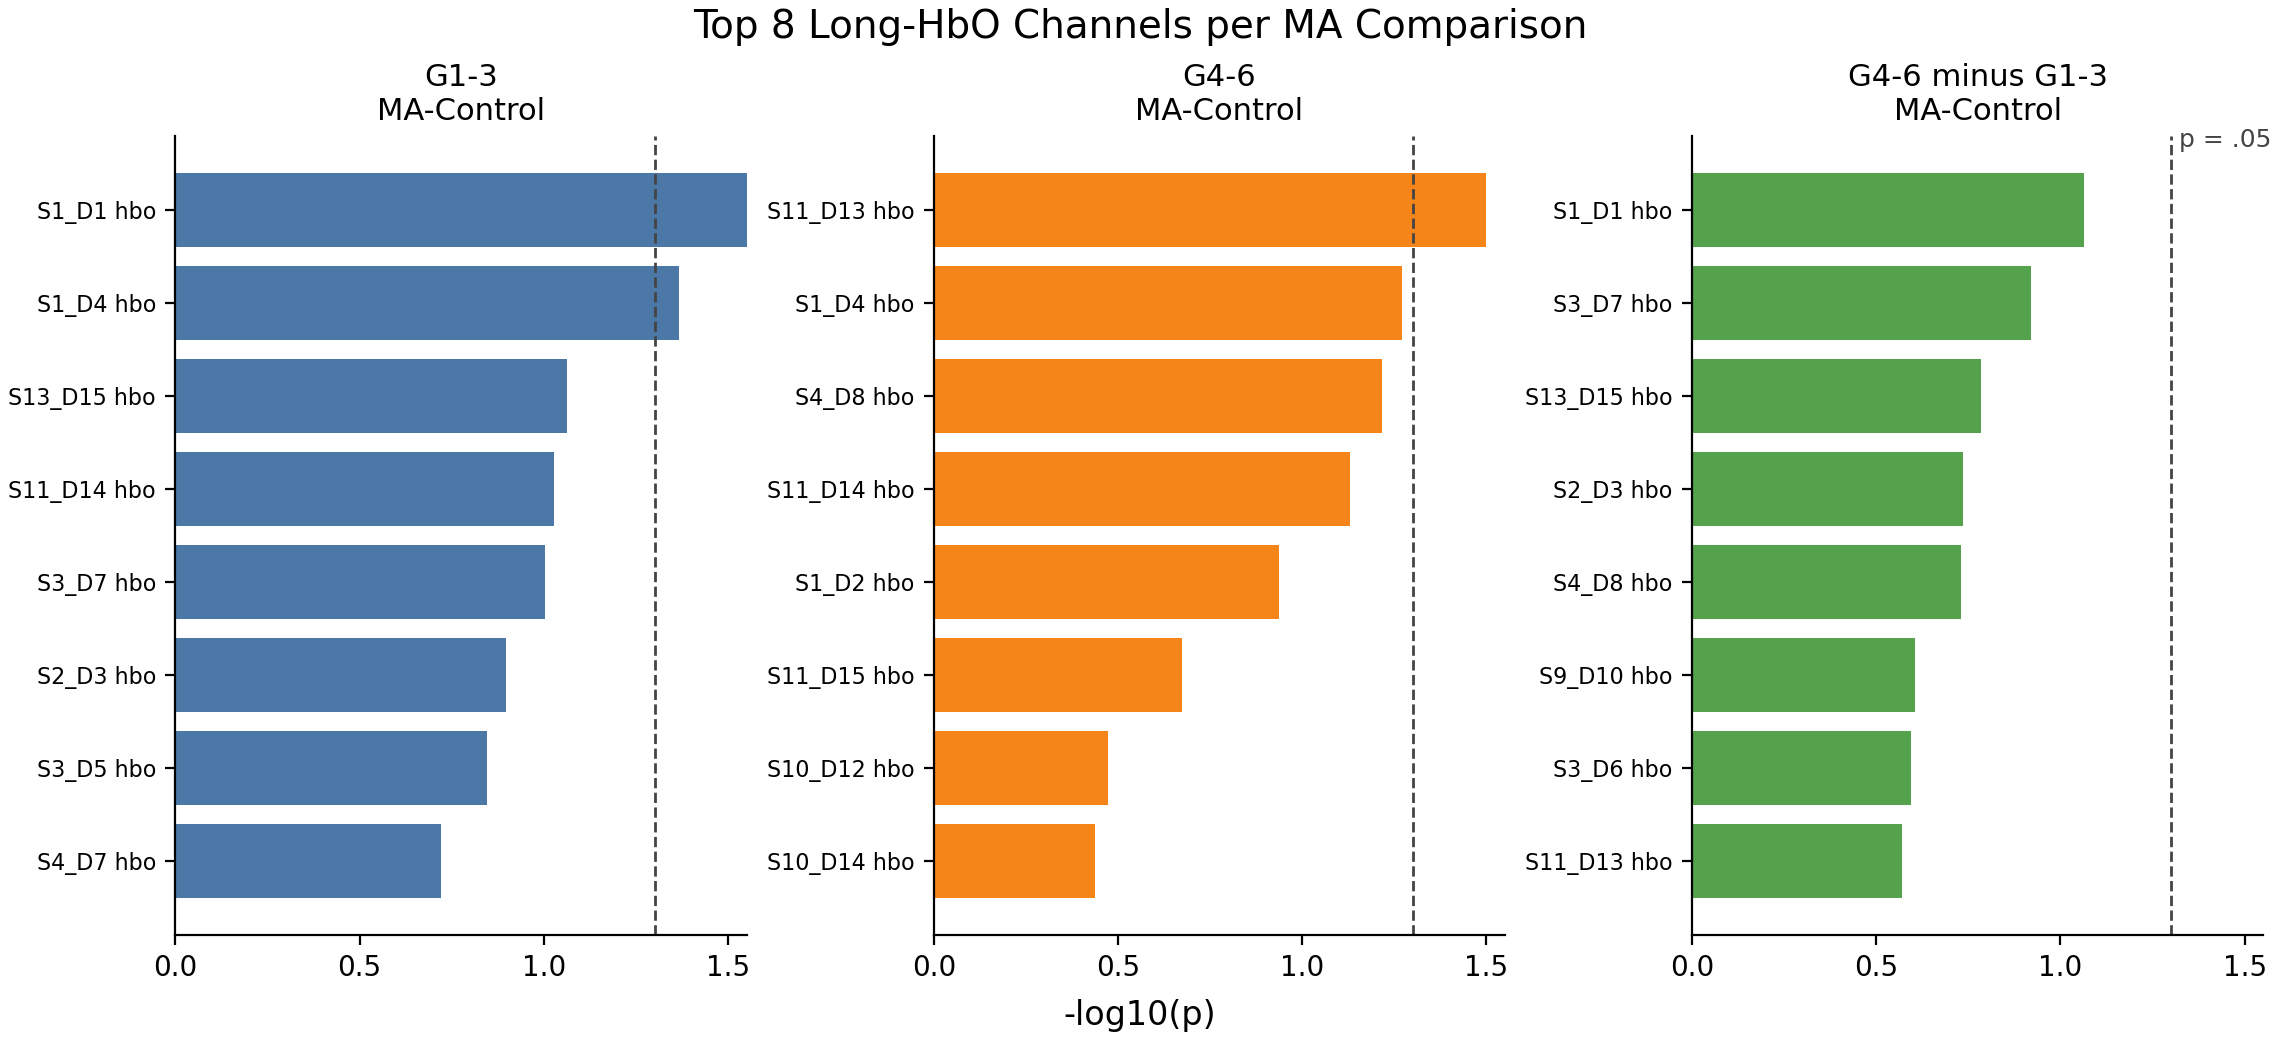
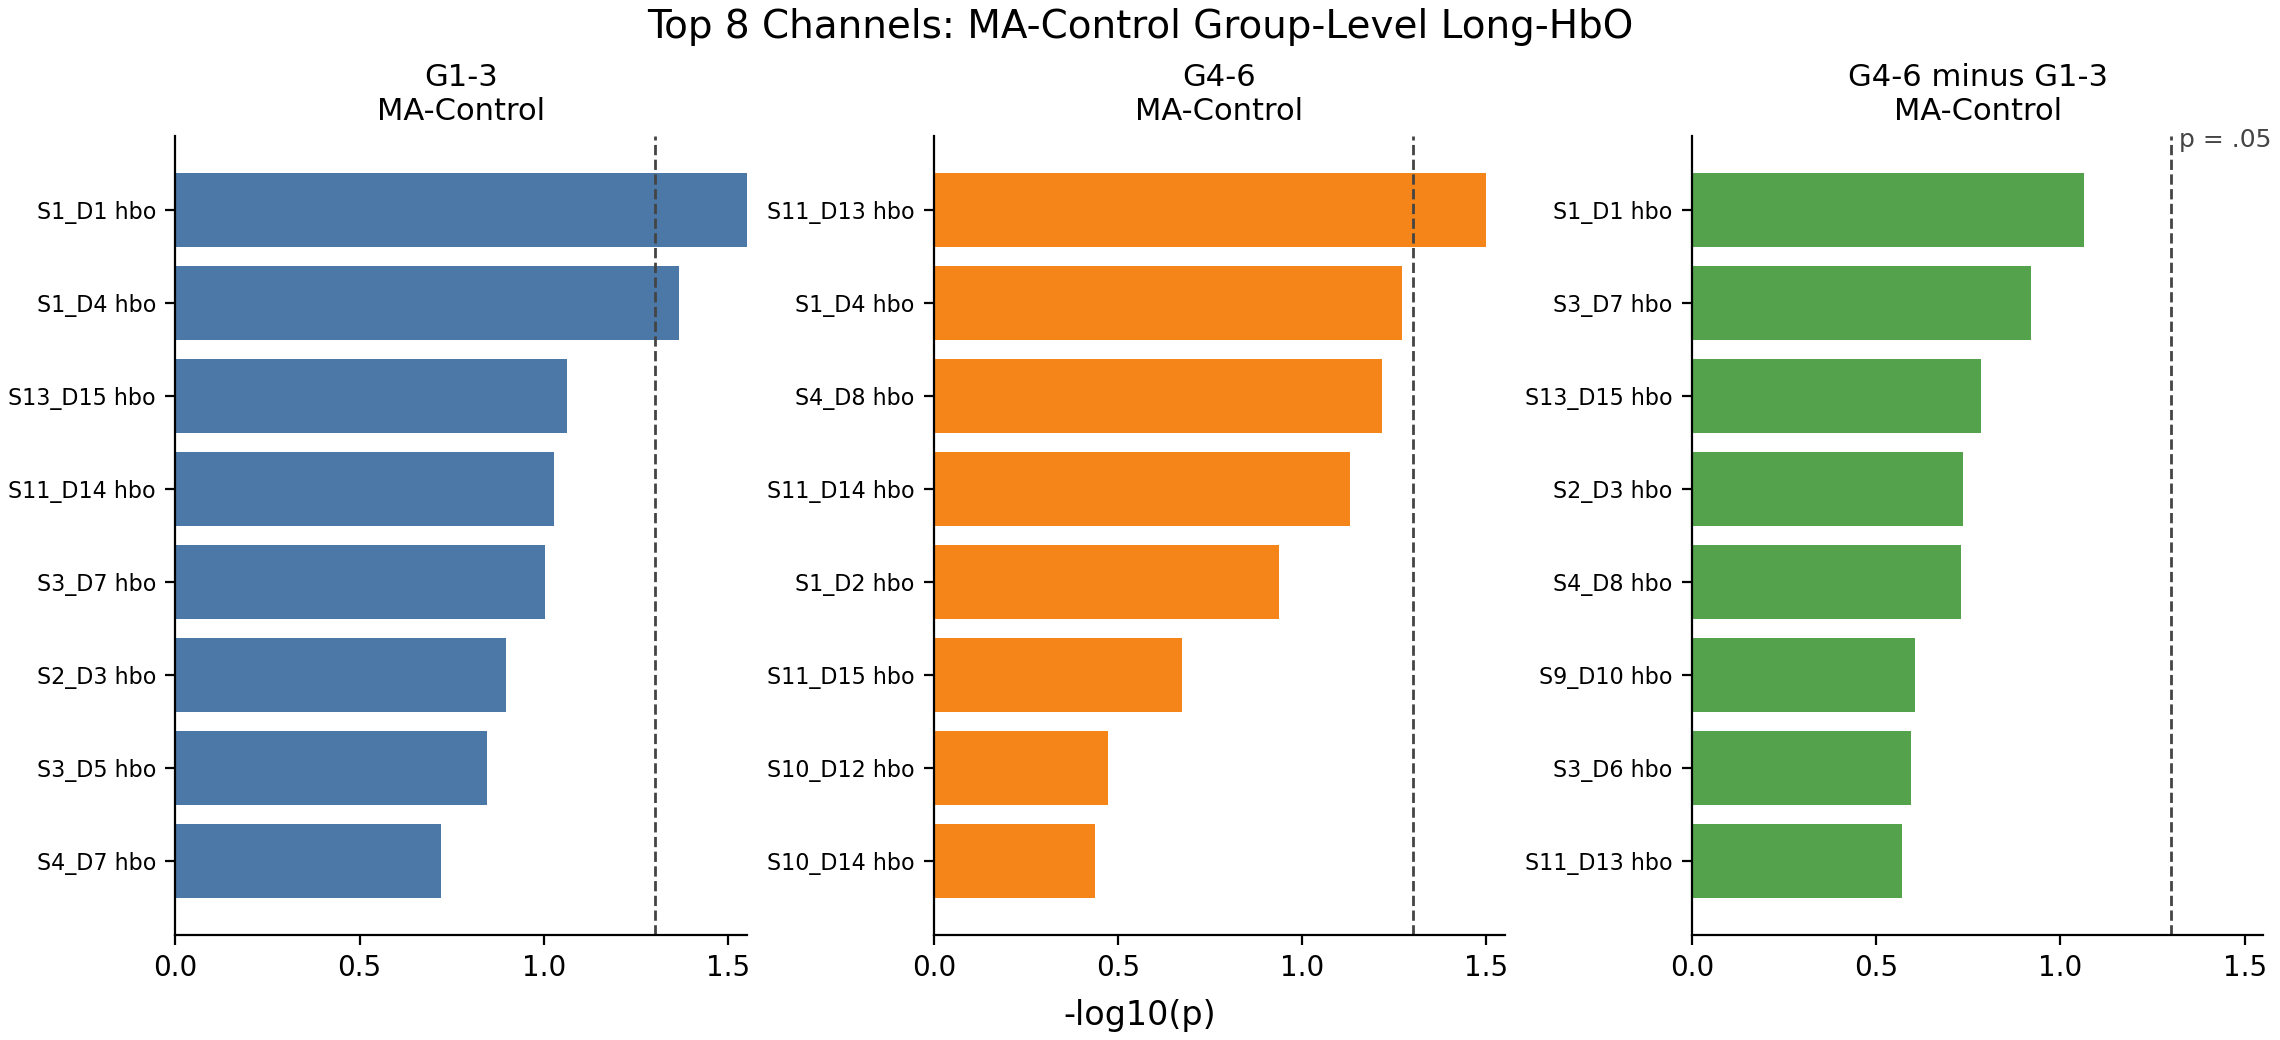
Add mixed-effects result figures

Changed region(s): [[0.2803, 0.0, 0.7162, 0.0615]]

diff --git a/scripts/visualization.py b/scripts/visualization.py
@@ -17,12 +17,17 @@ import pandas as pd
 DEFAULT_STATS = Path("results/group_level_channel_stats_ssreg_long_hbo.csv")
 DEFAULT_SUMMARY = Path("results/group_level_summary_ssreg_long_hbo.csv")
 DEFAULT_OUTPUT_DIR = Path("figures")
+DEFAULT_OUTPUT_PREFIX = "ma"
+DEFAULT_FIGURE_TITLE = "MA-Control Group-Level Long-HbO"
 
 
 COMPARISON_LABELS = {
     "G1_3 MA-Control": "G1-3\nMA-Control",
     "G4_6 MA-Control": "G4-6\nMA-Control",
     "G4_6 minus G1_3 MA-Control": "G4-6 minus G1-3\nMA-Control",
+    "G1_3 MA - Control": "G1-3\nMA-Control",
+    "G4_6 MA - Control": "G4-6\nMA-Control",
+    "G4_6 MA effect - G1_3 MA effect": "G4-6 minus G1-3\nMA-Control",
 }
 
 
@@ -41,7 +46,12 @@ def _comparison_order(values: pd.Series) -> list[str]:
     return ordered
 
 
-def plot_significance_counts(summary: pd.DataFrame, output_dir: Path) -> Path:
+def plot_significance_counts(
+    summary: pd.DataFrame,
+    output_dir: Path,
+    output_prefix: str,
+    figure_title: str,
+) -> Path:
     """Plot uncorrected and corrected significant-channel counts."""
     order = _comparison_order(summary["comparison"])
     summary = summary.set_index("comparison").loc[order].reset_index()
@@ -81,7 +91,7 @@ def plot_significance_counts(summary: pd.DataFrame, output_dir: Path) -> Path:
     for bars in (bars1, bars2, bars3):
         ax.bar_label(bars, padding=3, fontsize=9)
 
-    ax.set_title("MA-Control Group-Level Long-HbO Channel Counts")
+    ax.set_title(f"{figure_title} Channel Counts")
     ax.set_ylabel("Number of channels")
     ax.set_xticks(x)
     ax.set_xticklabels([COMPARISON_LABELS.get(name, name) for name in order])
@@ -89,19 +99,28 @@ def plot_significance_counts(summary: pd.DataFrame, output_dir: Path) -> Path:
     ax.legend(frameon=False, ncols=1)
     ax.spines[["top", "right"]].set_visible(False)
 
-    output_path = output_dir / "ma_group_significance_counts.png"
+    output_path = output_dir / f"{output_prefix}_group_significance_counts.png"
     fig.savefig(output_path, dpi=200)
     plt.close(fig)
     return output_path
 
 
-def plot_top_channels(stats: pd.DataFrame, output_dir: Path, n_top: int = 8) -> Path:
+def plot_top_channels(
+    stats: pd.DataFrame,
+    output_dir: Path,
+    output_prefix: str,
+    figure_title: str,
+    n_top: int = 8,
+) -> Path:
     """Plot the lowest-p channels for each comparison."""
     order = _comparison_order(stats["comparison"])
     color_lookup = {
         "G1_3 MA-Control": "#4C78A8",
         "G4_6 MA-Control": "#F58518",
         "G4_6 minus G1_3 MA-Control": "#54A24B",
+        "G1_3 MA - Control": "#4C78A8",
+        "G4_6 MA - Control": "#F58518",
+        "G4_6 MA effect - G1_3 MA effect": "#54A24B",
     }
 
     fig, axes = plt.subplots(
@@ -142,7 +161,7 @@ def plot_top_channels(stats: pd.DataFrame, output_dir: Path, n_top: int = 8) -> 
         ax.set_xlim(0, max(threshold + 0.25, max_x + 0.15))
         ax.spines[["top", "right"]].set_visible(False)
 
-    fig.suptitle(f"Top {n_top} Long-HbO Channels per MA Comparison", fontsize=14)
+    fig.suptitle(f"Top {n_top} Channels: {figure_title}", fontsize=14)
     fig.supxlabel("-log10(p)")
     axes[-1].text(
         threshold + 0.02,
@@ -154,13 +173,19 @@ def plot_top_channels(stats: pd.DataFrame, output_dir: Path, n_top: int = 8) -> 
         color="#444444",
     )
 
-    output_path = output_dir / "ma_top_channel_pvalues.png"
+    output_path = output_dir / f"{output_prefix}_top_channel_pvalues.png"
     fig.savefig(output_path, dpi=200)
     plt.close(fig)
     return output_path
 
 
-def build_figures(stats_path: Path, summary_path: Path, output_dir: Path) -> list[Path]:
+def build_figures(
+    stats_path: Path,
+    summary_path: Path,
+    output_dir: Path,
+    output_prefix: str,
+    figure_title: str,
+) -> list[Path]:
     _check_input(stats_path)
     _check_input(summary_path)
     output_dir.mkdir(parents=True, exist_ok=True)
@@ -183,8 +208,8 @@ def build_figures(stats_path: Path, summary_path: Path, output_dir: Path) -> lis
         raise ValueError(f"Summary table missing columns: {sorted(missing_summary)}")
 
     return [
-        plot_significance_counts(summary, output_dir),
-        plot_top_channels(stats, output_dir),
+        plot_significance_counts(summary, output_dir, output_prefix, figure_title),
+        plot_top_channels(stats, output_dir, output_prefix, figure_title),
     ]
 
 
@@ -195,12 +220,20 @@ def parse_args() -> argparse.Namespace:
     parser.add_argument("--stats", type=Path, default=DEFAULT_STATS)
     parser.add_argument("--summary", type=Path, default=DEFAULT_SUMMARY)
     parser.add_argument("--output-dir", type=Path, default=DEFAULT_OUTPUT_DIR)
+    parser.add_argument("--output-prefix", default=DEFAULT_OUTPUT_PREFIX)
+    parser.add_argument("--figure-title", default=DEFAULT_FIGURE_TITLE)
     return parser.parse_args()
 
 
 def main() -> None:
     args = parse_args()
-    outputs = build_figures(args.stats, args.summary, args.output_dir)
+    outputs = build_figures(
+        args.stats,
+        args.summary,
+        args.output_dir,
+        args.output_prefix,
+        args.figure_title,
+    )
     print("Wrote figures:")
     for path in outputs:
         print(f"- {path}")

diff --git a/docs/mixed_effects_group_summary.md b/docs/mixed_effects_group_summary.md
@@ -77,6 +77,12 @@ The smallest uncorrected p-values were:
 These are descriptive exploratory results only. No channel survived FDR or
 Bonferroni correction.
 
+## Figures
+
+![MA mixed-effects significance counts](../figures/ma_mixed_effects_group_significance_counts.png)
+
+![Top MA mixed-effects channel p-values](../figures/ma_mixed_effects_top_channel_pvalues.png)
+
 ## Relationship to MATLAB
 
 This mixed-effects script improves alignment with the MATLAB group-level model,
@@ -98,6 +104,11 @@ Use the project conda environment:
 ```bash
 conda activate brainhack-fnirs
 python scripts/group_mixed_effects.py
+python scripts/visualization.py \
+  --stats results/group_level_mixed_effects_channel_stats_ssreg_long_hbo.csv \
+  --summary results/group_level_mixed_effects_summary_ssreg_long_hbo.csv \
+  --output-prefix ma_mixed_effects \
+  --figure-title "MA-Control Mixed-Effects Long-HbO"
 ```
 
 The script writes local tables to:

diff --git a/README.md b/README.md
@@ -180,6 +180,11 @@ Create aggregate MA result figures:
 
 ```bash
 python scripts/visualization.py
+python scripts/visualization.py \
+  --stats results/group_level_mixed_effects_channel_stats_ssreg_long_hbo.csv \
+  --summary results/group_level_mixed_effects_summary_ssreg_long_hbo.csv \
+  --output-prefix ma_mixed_effects \
+  --figure-title "MA-Control Mixed-Effects Long-HbO"
 ```
 
 Create the final presentation deck:

diff --git a/report/index.md b/report/index.md
@@ -178,6 +178,10 @@ channel counts were:
 
 ![Top MA channel p-values](../figures/ma_top_channel_pvalues.png)
 
+![MA mixed-effects significance counts](../figures/ma_mixed_effects_group_significance_counts.png)
+
+![Top MA mixed-effects channel p-values](../figures/ma_mixed_effects_top_channel_pvalues.png)
+
 These figures are generated from aggregate group-level summary tables, not from
 raw participant-level time series.
 